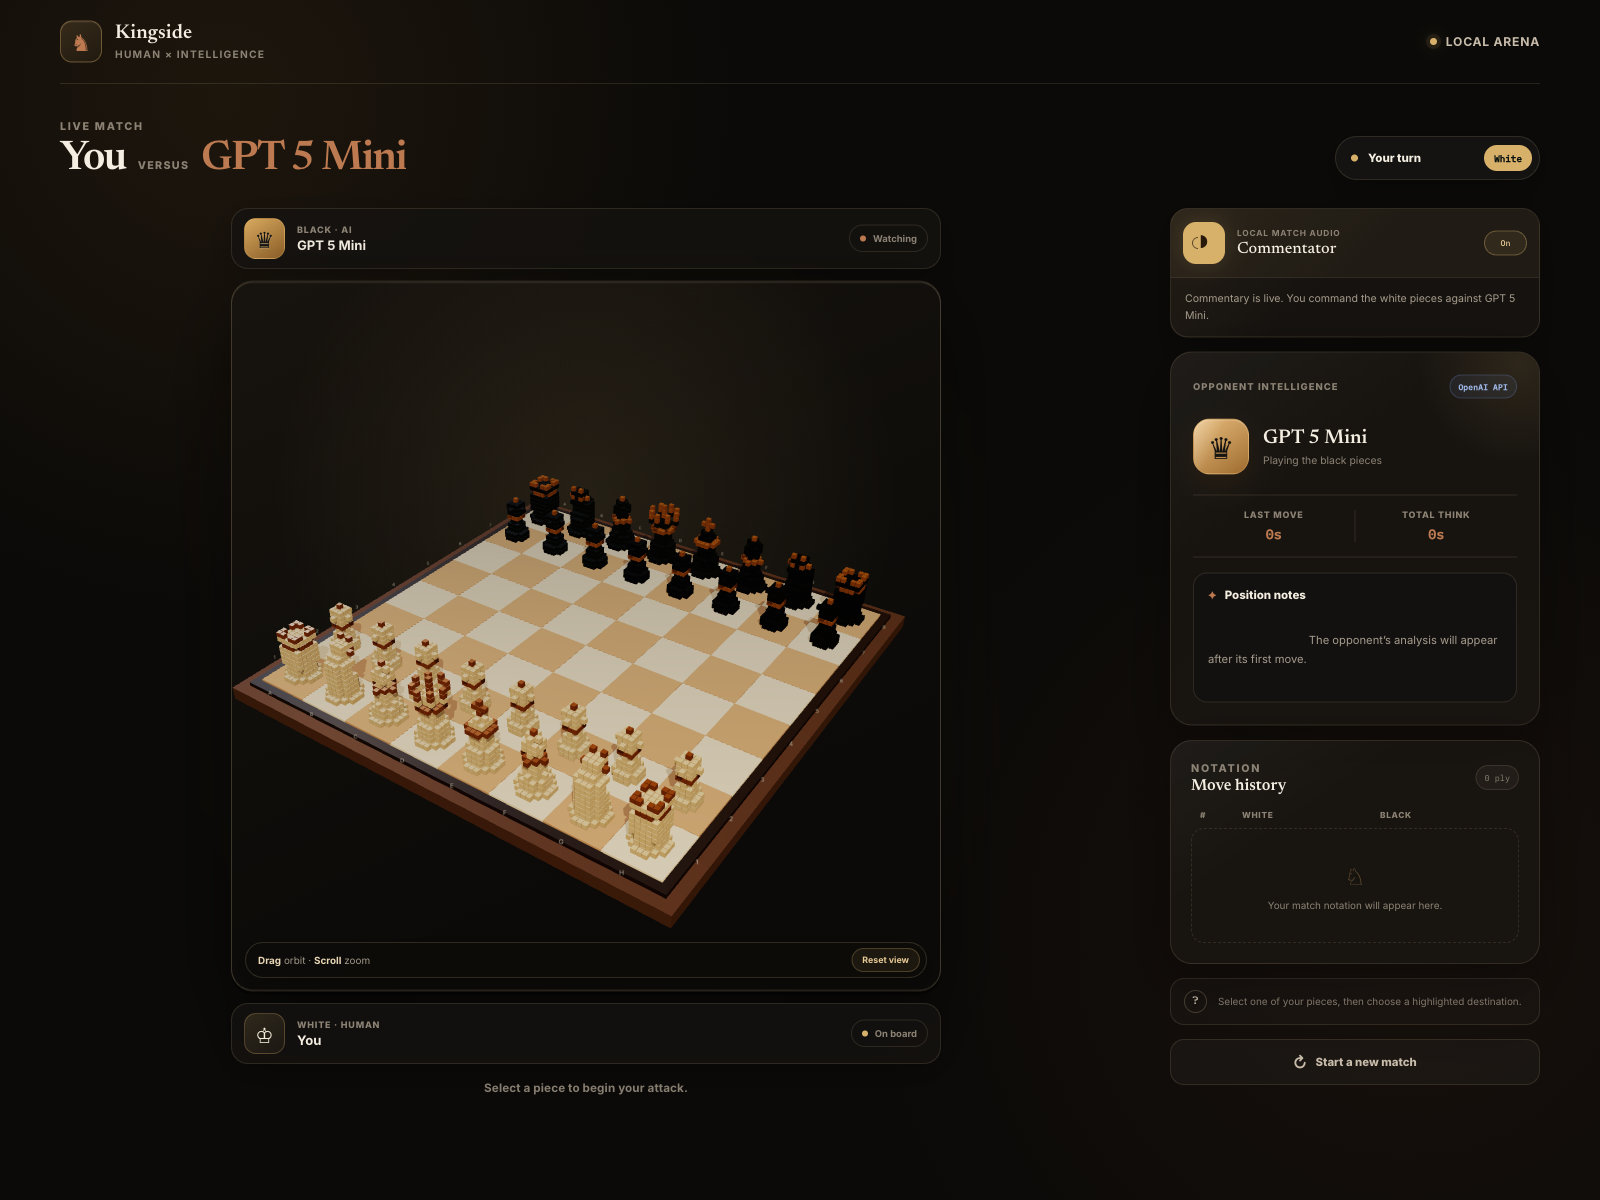
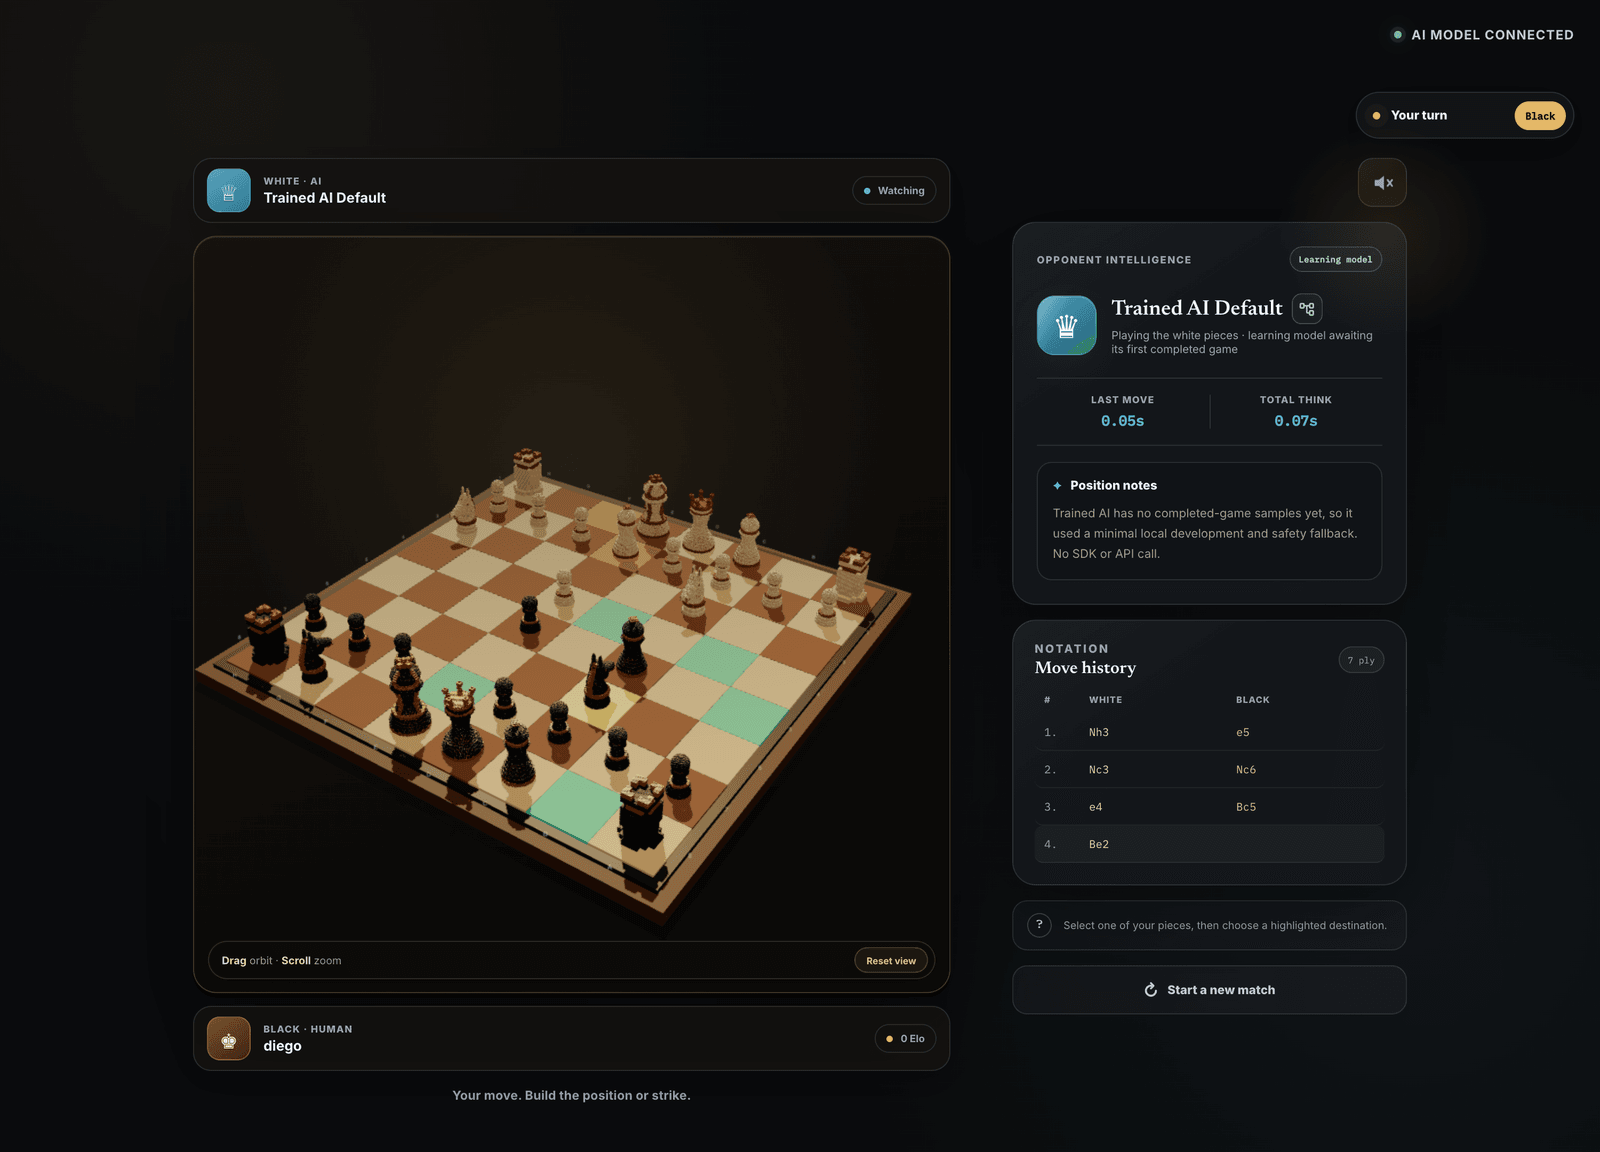
Refresh the README screenshot
The screenshot predated several rounds of interface work: it showed an
old header and match banner that no longer exist, the pale cream board,
the all-brown palette, and the previous knight model.

Recaptured mid-match on the voxel board so the walnut squares, the
neutral shell with its gold and cyan accents, the highlighted legal
destinations, and the populated move history are all visible. Quantized
to 1600px wide, which also drops the file from 522 KB to 172 KB.

diff --git a/README.md b/README.md
@@ -4,7 +4,8 @@ A polished local chess arena where your side is randomized each match and the
 opposing army is powered by OpenAI, Anthropic, your existing Codex subscription,
 or a local model that learns from completed games.
 
-![Kingside game interface with legal move highlights](static/img/image.png)
+![Kingside mid-match on the voxel board, showing the highlighted legal
+destinations, the opponent panel, and the move history](static/img/image.png)
 
 ## Choose how you play
 
